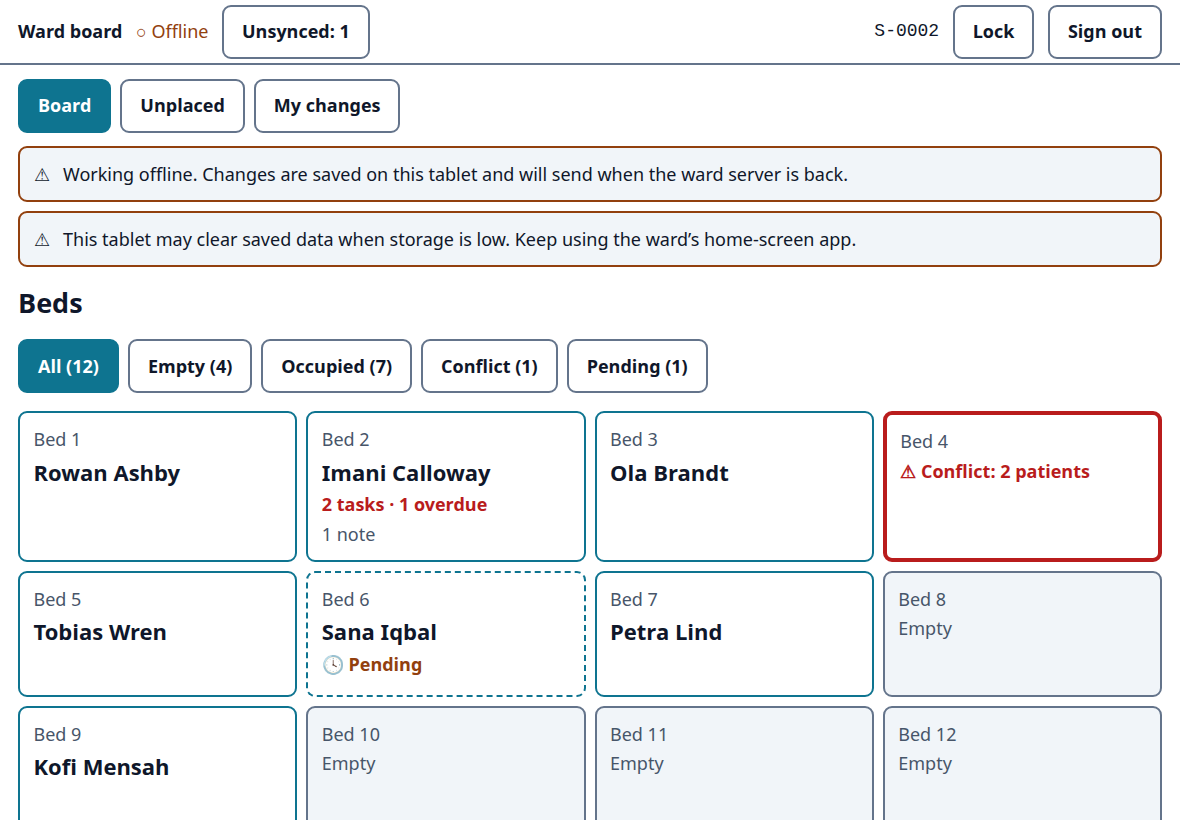
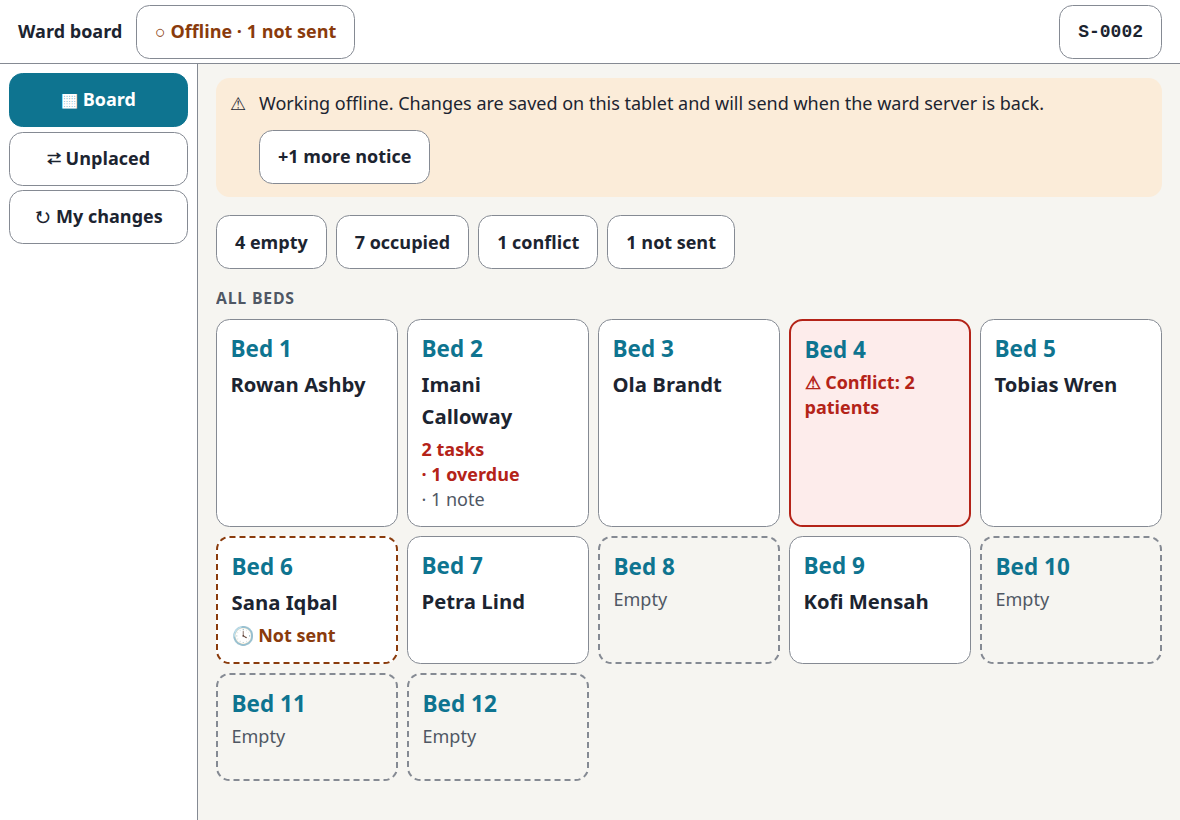
test(web): README screenshots for the calm board (FR-16)

diff --git a/apps/web/e2e/screenshots.spec.ts b/apps/web/e2e/screenshots.spec.ts
@@ -33,12 +33,16 @@ test('README screenshots', async ({ browser, browserName }) => {
   for (const [bed, name] of [[1, 'Rowan Ashby'], [2, 'Imani Calloway'], [3, 'Ola Brandt'], [5, 'Tobias Wren'], [7, 'Petra Lind'], [9, 'Kofi Mensah']] as const) await admit(a, bed, name);
 
   await a.getByRole('button', { name: /^Bed 2, Imani Calloway, / }).click();
+  await a.getByRole('button', { name: 'Add a task' }).click();
   await a.getByLabel('New task').fill('Bed needs fresh linen');
   await a.getByLabel('Due at (optional)').fill(hhmmAgo(20)); // shortcut: just after midnight this is tomorrow, so not overdue
   await a.getByRole('button', { name: 'Add task' }).click();
   await a.waitForTimeout(700); // past the double-tap guard
+  await a.getByRole('button', { name: 'Add a task' }).click();
   await a.getByLabel('New task').fill('Book porter for X-ray');
   await a.getByRole('button', { name: 'Add task' }).click();
+  await a.getByRole('group', { name: 'Show' }).getByRole('button', { name: /^Notes/ }).click();
+  await a.getByRole('button', { name: 'Add a note' }).click();
   await a.getByLabel('New handoff note').fill('Family visiting after lunch; prefers the window side');
   await a.getByRole('button', { name: 'Add note' }).click();
   await expect(a.getByText('Family visiting after lunch; prefers the window side')).toBeVisible();
@@ -59,7 +63,7 @@ test('README screenshots', async ({ browser, browserName }) => {
   await expect(b.getByRole('button', { name: /^Bed 2, Imani Calloway, 2 tasks, 1 overdue, 1 note, confirmed/ })).toBeVisible();
   await b.screenshot({ path: `${OUT}board-offline.png` });
 
-  await b.setViewportSize({ width: 1180, height: 1500 }); // tall enough for the whole bed sheet
+  await b.setViewportSize({ width: 1180, height: 760 }); // the side panel fills the viewport height
   await b.getByRole('button', { name: /^Bed 2, Imani Calloway, / }).click();
   await expect(b.getByText('Bed needs fresh linen')).toBeVisible();
   await settled(b);

diff --git a/README.md b/README.md
@@ -12,7 +12,7 @@ A tablet that has lost the network keeps working. The admit to bed 6 is saved on
 
 | Bed sheet: tasks and handoff notes | Charge nurse keeps one patient | Changes not yet confirmed |
 |---|---|---|
-| ![Bed sheet with an overdue task, a second task and a handoff note](docs/screenshots/bed-sheet.png) | ![Dialog confirming which patient stays in bed 4; the other moves to Unplaced](docs/screenshots/resolve-conflict.png) | ![My changes screen listing a pending admit, with the option to save unsynced changes to an encrypted file](docs/screenshots/my-changes.png) |
+| ![Bed side panel on the Tasks tab with an overdue task, a second task, and a Notes tab](docs/screenshots/bed-sheet.png) | ![Dialog confirming which patient stays in bed 4; the other moves to Unplaced](docs/screenshots/resolve-conflict.png) | ![My changes screen listing a pending admit, with the option to save unsynced changes to an encrypted file](docs/screenshots/my-changes.png) |
 
 All names are made up (see [DATA_POLICY.md](DATA_POLICY.md)). Captured with Playwright from the real app at iPad landscape size; regenerate with `WDB_SCREENSHOTS=1 pnpm e2e --project=chromium e2e/screenshots.spec.ts`.
 
